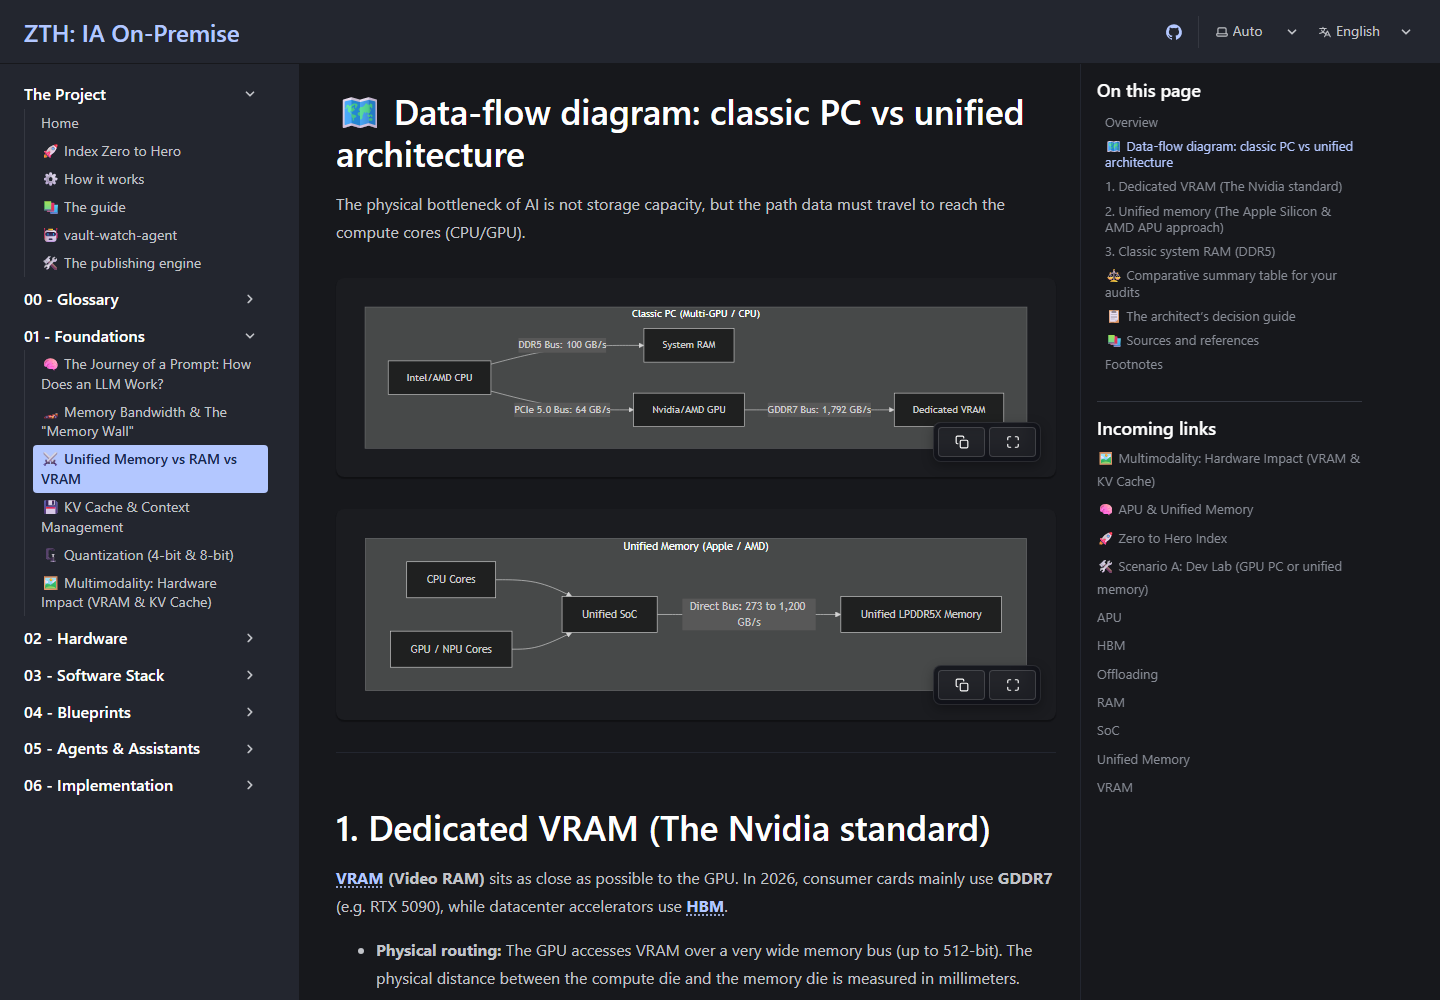
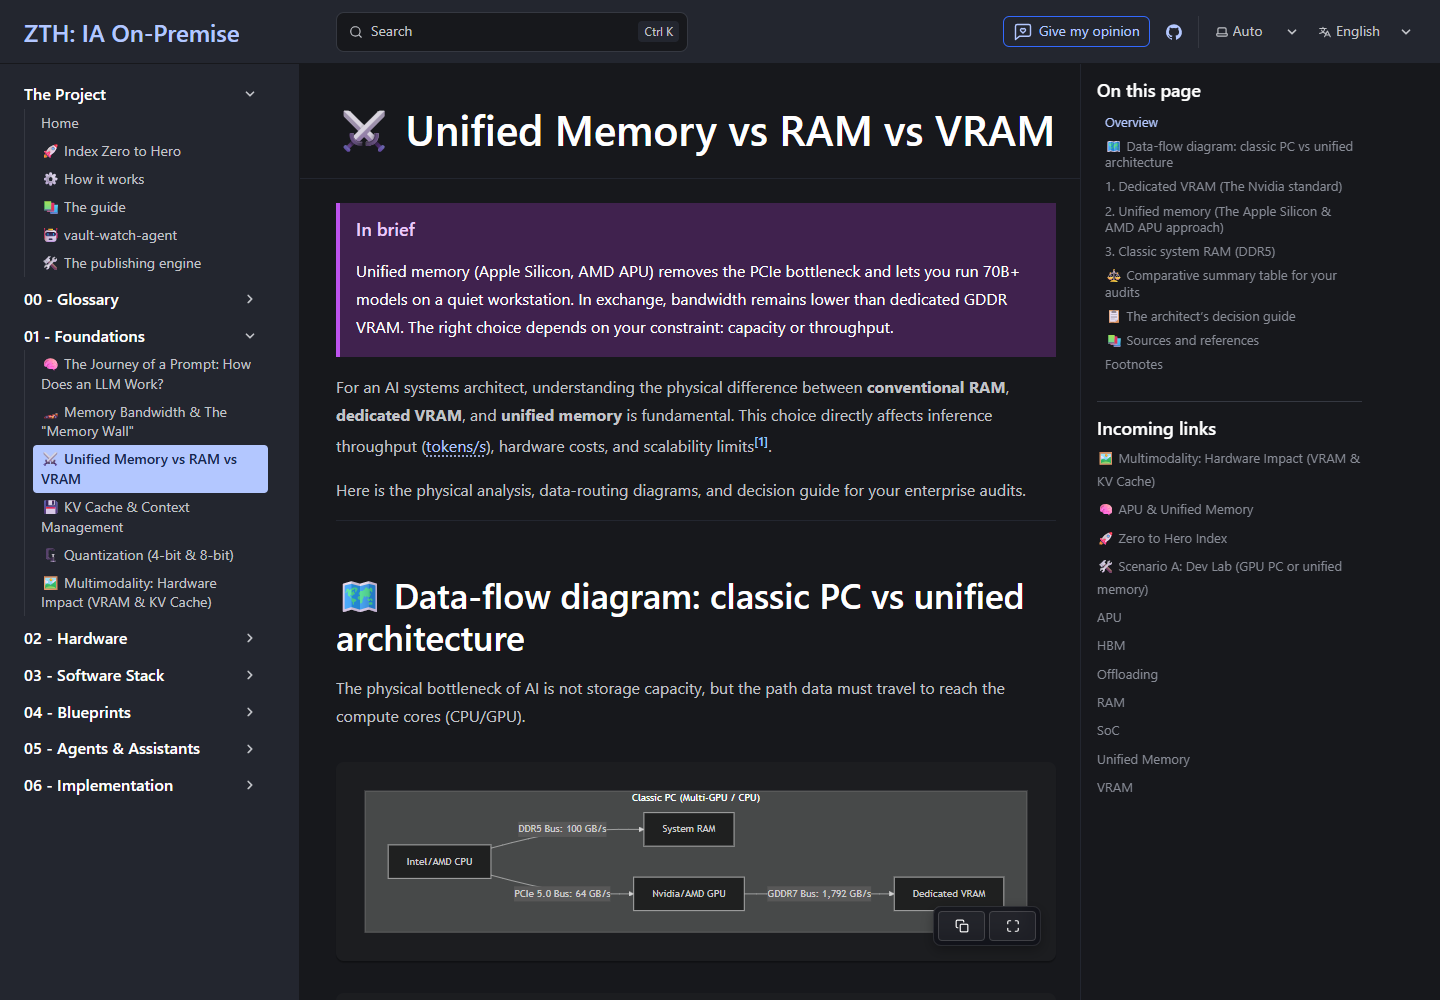
docs(readme): screenshots of the published guide with « Give my opinion » (header and end of page) (#103)

diff --git a/README.md b/README.md
@@ -18,6 +18,8 @@
 
 [![A page of the published guide: Mermaid diagrams, navigation, table of contents and incoming links](docs/images/site-unified-memory.png)](https://ia-on-prem.damien.becherini.fr/en/01-fondations/unified-memory-vs-ram-vs-vram/)
 
+[![The end of the same page: the dates of change and verification, the author who reviewed it, the agent, then « Give my opinion », also in the header](docs/images/site-page-end.png)](https://ia-on-prem.damien.becherini.fr/en/01-fondations/unified-memory-vs-ram-vs-vram/)
+
 ## What this repository shows
 
 - **Content:** 129 French notes, each with its English mirror under `en/`, and 26 Mermaid diagrams per language,
